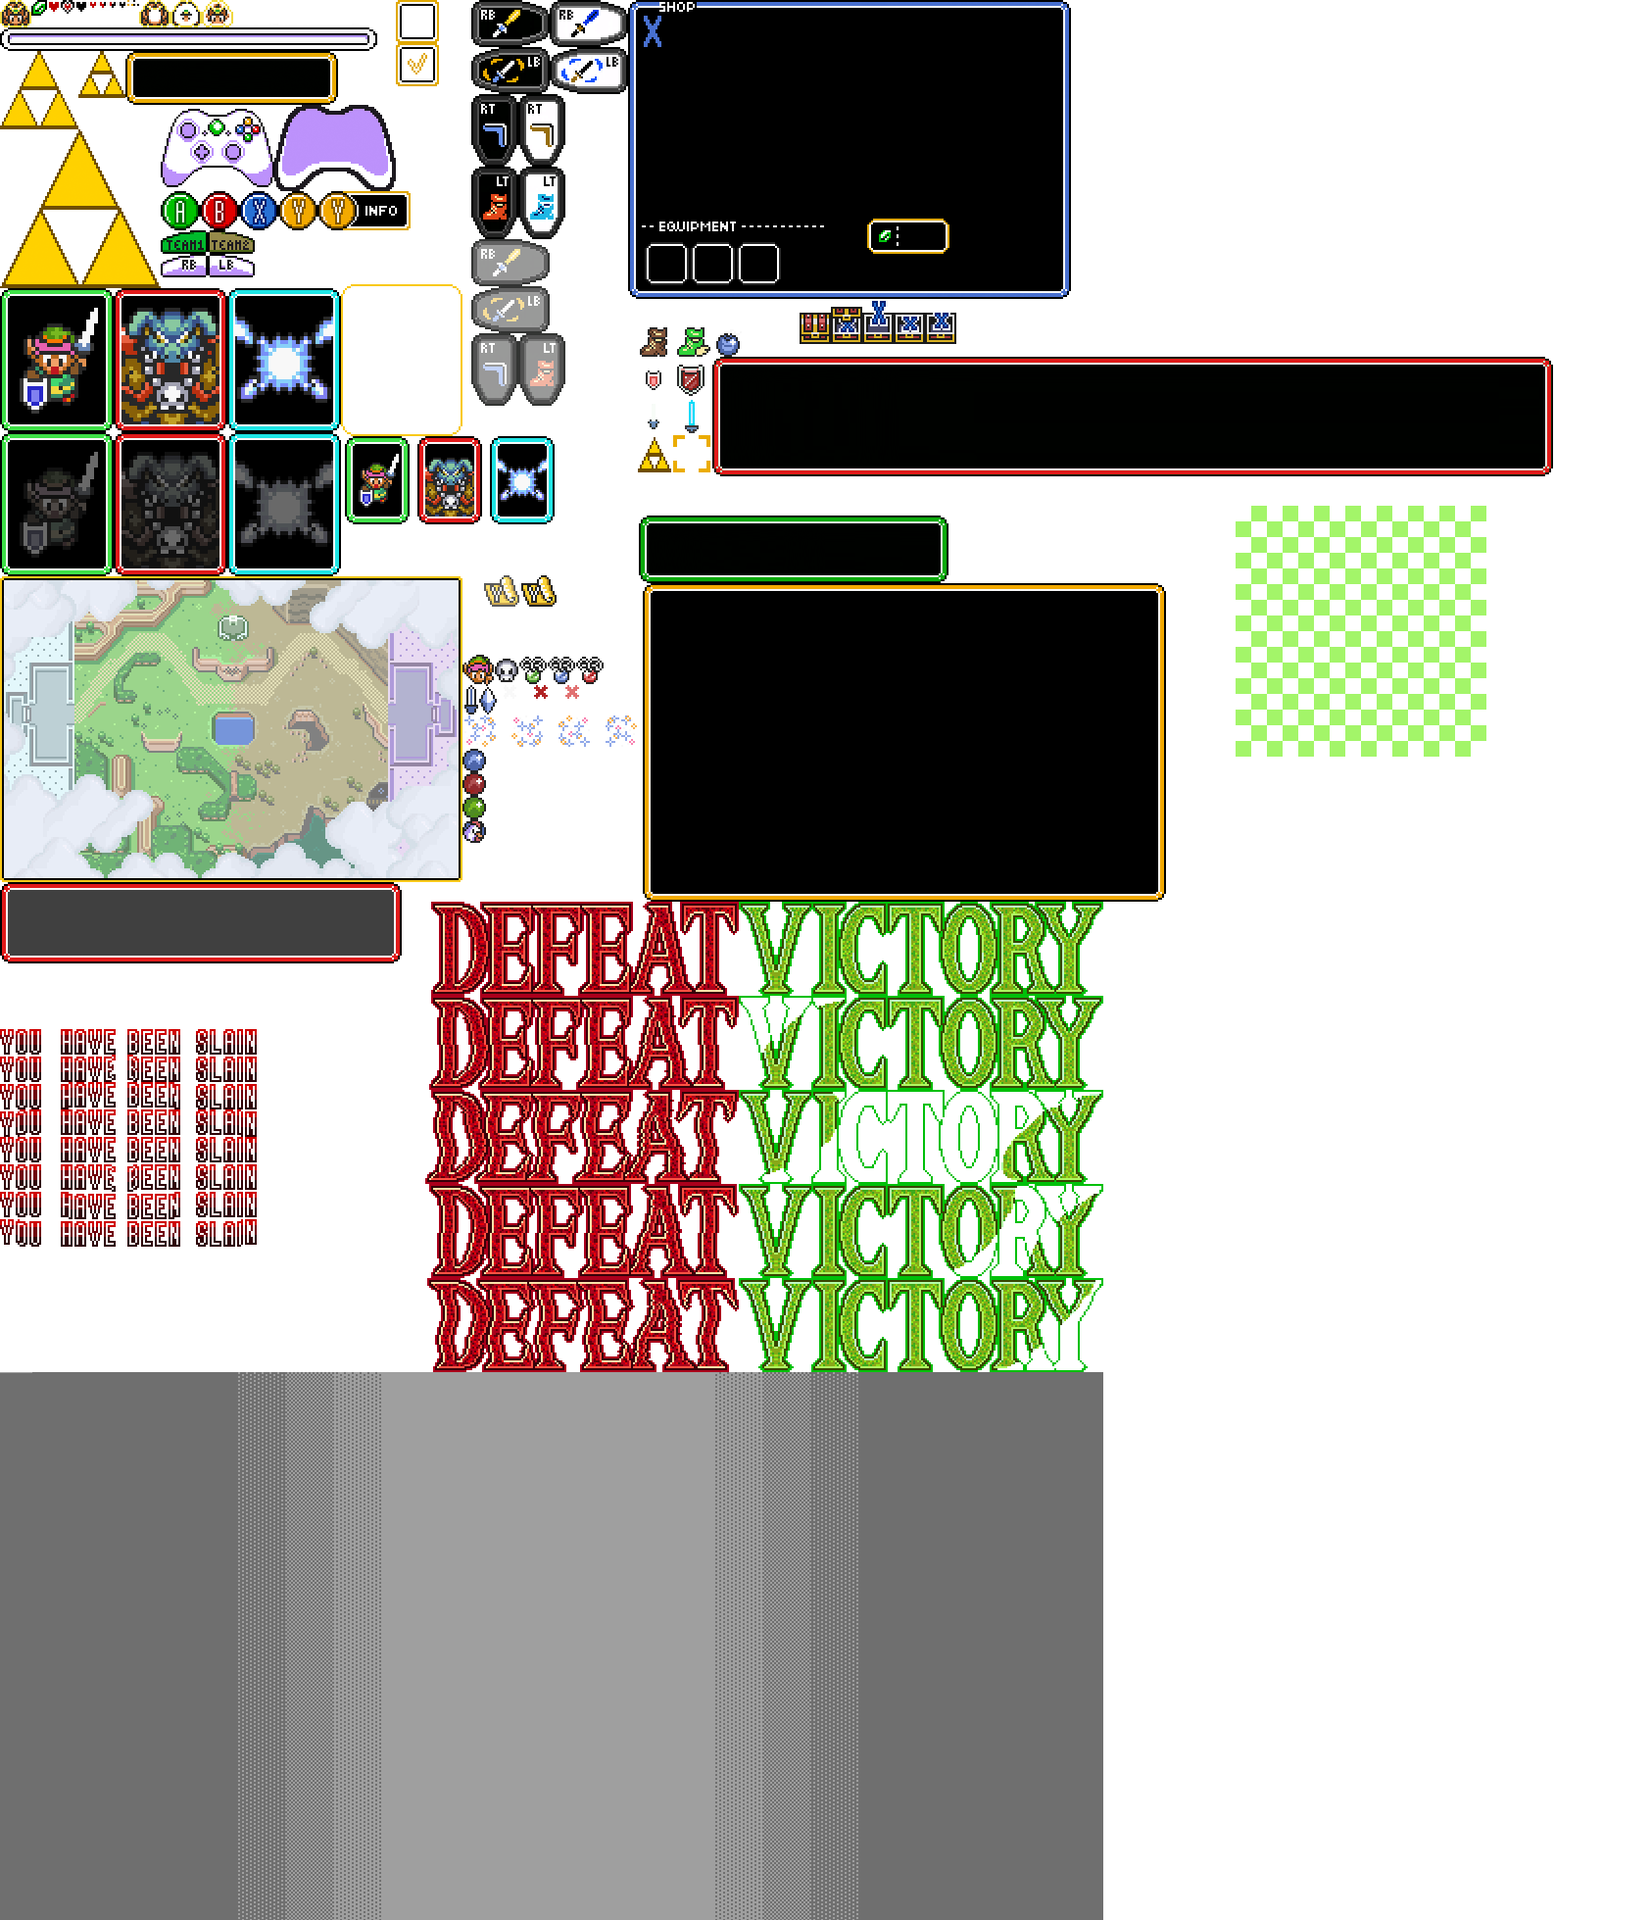
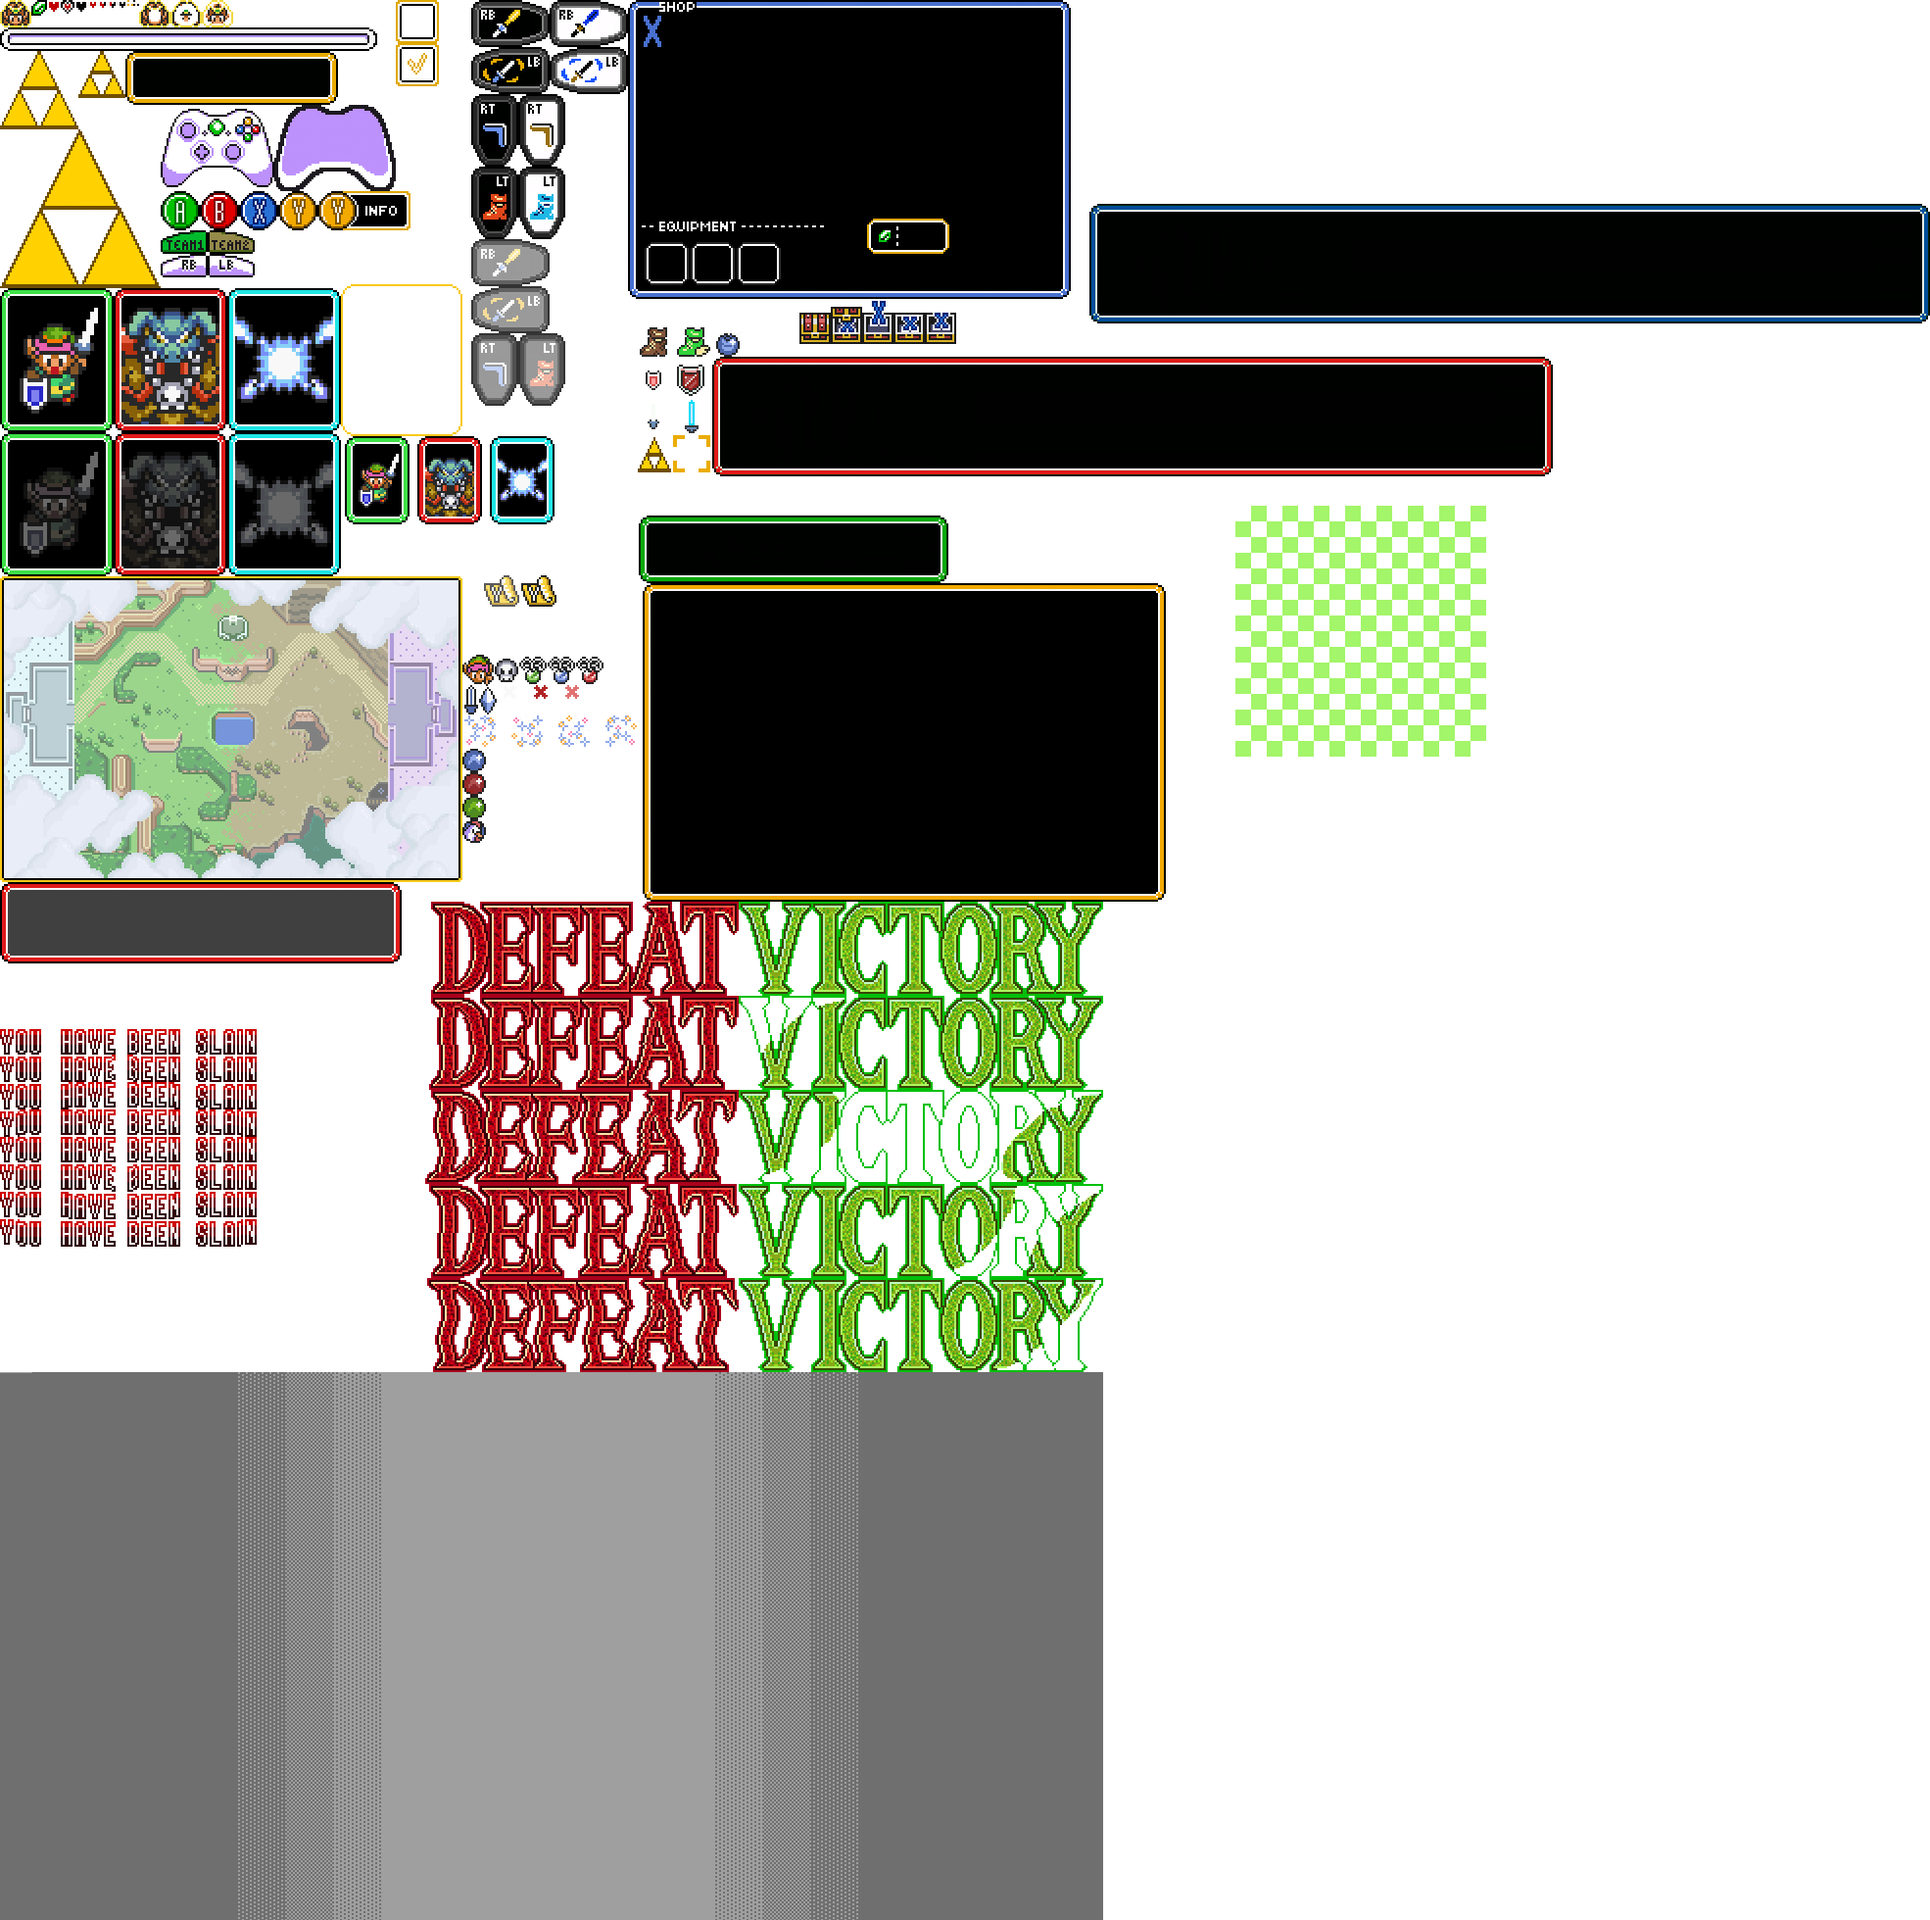
Final screen finished (passing data missing)

diff --git a/Motor2D/FinalScreen.cpp b/Motor2D/FinalScreen.cpp
@@ -1,19 +1,24 @@
 #include "FinalScreen.h"
 #include "j1Console.h"
 #include "j1Textures.h"
+#include "j1Input.h"
+#include "j1Window.h"
+#include "j1Scene.h"
 #include "j1Viewports.h"
 
 bool FinalScreen::Start()
 {
-	
-	SDL_Rect screen = App->view->GetViewportRect(1);
+	uint w, h; 
+	App->win->GetWindowSize(w,h);
+
+	SDL_Rect screen = { 0,0,w,h };
 
 	// Creating general elements ----
 
 	window = App->gui->UI_CreateWin({0, 0}, screen.w, screen.h, 0, false);
 
 	SDL_Rect background_title_rect = { 652, 526, 316, 69}; 
-	iPoint background_title_rect_pos = { screen.w - background_title_rect.w / 2, 20 };
+	iPoint background_title_rect_pos = { screen.w/2 - background_title_rect.w / 2, 20 };
 	title_background = window->CreateImage(background_title_rect_pos, background_title_rect);
 
 	title_text = window->CreateText({ background_title_rect_pos.x + 75, background_title_rect_pos.y + 13 }, App->font->game_font_20);
@@ -23,12 +28,43 @@ bool FinalScreen::Start()
 
 	// ----
 
+	//Creating player info 
+
+	SDL_Rect placeholder_item = { 1321, 587, 45, 45 };
+	SDL_Rect placeholder_character = { 1321, 587, 90,90 };
+
+	// This need to be modified to adapt how we save characters data
+
+	for (int i = 0; i < 4; i++)
+	{
+		final_screen_player_info new_info; 
+
+		new_info.deaths = 0; 
+		new_info.kills = 0;
+		new_info.minions = 0;
+		new_info.towers = 0;
+
+		new_info.items[0] = placeholder_item;
+		new_info.items[1] = placeholder_item;
+		new_info.items[2] = placeholder_item;
+
+		new_info.character_name = "link"; 
+
+		player_info.push_back(new_info); 
+	} 
+
+	// ----
+
+
 	// Creating player cards 
 
 	int y_offset = 0; 
+	int offset_increment = screen.h / 5; 
 
-	SDL_Rect background_card_rect = {727, 364, 858, 122}; 
-	iPoint background_card_pos = { screen.w - background_card_rect.w/2, 115};
+	SDL_Rect background_card_rect_team1 = { 1112, 208, 858, 122 };
+	SDL_Rect background_card_rect_team2 = { 727, 364, 858, 122 };
+
+	iPoint background_card_pos = { screen.w/2 - background_card_rect_team1.w/2, screen.h/6};
 
 	iPoint kills_text_pos = { background_card_pos.x + 60, background_card_pos.y + 20 };
 	iPoint deaths_text_pos = { background_card_pos.x + 190, background_card_pos.y + 20 };
@@ -36,51 +72,107 @@ bool FinalScreen::Start()
 	iPoint towers_text_pos = { background_card_pos.x + 490, background_card_pos.y + 20 };
 	iPoint items_text_pos = { background_card_pos.x + 690, background_card_pos.y + 20 };
 
+	iPoint item_1_image_pos = iPoint( items_text_pos.x - 62, items_text_pos.y + 35);
+	iPoint item_2_image_pos = iPoint( items_text_pos.x + 7, items_text_pos.y + 35 );
+	iPoint item_3_image_pos = iPoint( items_text_pos.x + 72, items_text_pos.y + 35);
+
 	for (int i = 0; i < 4; i++)
 	{
 		final_screen_element new_card; 
 
-		new_card.rectangle_image = window->CreateImage({ background_card_pos.x, background_card_pos.y + y_offset}, background_card_rect);
+		if(i < 2)
+			new_card.rectangle_image = window->CreateImage({ background_card_pos.x, background_card_pos.y + y_offset }, background_card_rect_team1);
+		else
+			new_card.rectangle_image = window->CreateImage({ background_card_pos.x, background_card_pos.y + y_offset }, background_card_rect_team2);
+
+		
+		new_card.character_image = window->CreateImage({ background_card_pos.x - 130, background_card_pos.y + 15 + y_offset }, placeholder_character);
 
 		new_card.kills_text = window->CreateText({ kills_text_pos.x, kills_text_pos.y + y_offset }, App->font->game_font);
 		new_card.kills_text->SetText("KILLS");
 
+		new_card.kills_num = window->CreateText({ kills_text_pos.x + 20, kills_text_pos.y + 35 + y_offset }, App->font->game_font_20);
+		
 		new_card.deaths_text = window->CreateText({ deaths_text_pos.x, deaths_text_pos.y + y_offset }, App->font->game_font);
 		new_card.deaths_text->SetText("DEATHS");
 
+		new_card.deaths_num = window->CreateText({ deaths_text_pos.x + 30, deaths_text_pos.y + 35 + y_offset }, App->font->game_font_20);
+	
 		new_card.minions_text = window->CreateText({ minions_text_pos.x, minions_text_pos.y + y_offset }, App->font->game_font);
 		new_card.minions_text->SetText("MINIONS");
 
+		new_card.minions_num = window->CreateText({ minions_text_pos.x + 35, minions_text_pos.y + 35 + y_offset }, App->font->game_font_20);
+	
 		new_card.towers_text = window->CreateText({ towers_text_pos.x, towers_text_pos.y + y_offset }, App->font->game_font);
 		new_card.towers_text->SetText("TOWERS");
 
+		new_card.towers_num = window->CreateText({ towers_text_pos.x + 35, towers_text_pos.y + 35 + y_offset }, App->font->game_font_20);
+	
 		new_card.items_text = window->CreateText({ items_text_pos.x, items_text_pos.y + y_offset }, App->font->game_font);
 		new_card.items_text->SetText("ITEMS");
+	
+		new_card.item_images_1 = window->CreateImage({ item_1_image_pos.x, item_1_image_pos.y + y_offset }, placeholder_item);
 
-		y_offset += 150;
+		new_card.item_images_2 = window->CreateImage({ item_2_image_pos.x, item_2_image_pos.y + y_offset }, placeholder_item);
+
+		new_card.item_images_3 = window->CreateImage({ item_3_image_pos.x, item_3_image_pos.y + y_offset }, placeholder_item);
+
+		new_card.SetInfo(player_info[i]); 
+
+		y_offset += offset_increment;
 	}
 
 	return false;
 }
 
-bool FinalScreen::Update()
+bool FinalScreen::Update(float dt)
 {
 
-
 	// Printing background
-		App->render->Blit(background_image, 0,0);
+		App->view->LayerBlit(0, background_image, App->view->camera1, {0,0,1994, 1359}, 0,1);
+
+		if (App->input->GetControllerButton(0, SDL_CONTROLLER_BUTTON_START) == KEY_DOWN)
+			App->scene->ChangeScene((Scene*)App->scene->menu_scene); 
 
 	return false;
 }
 
 bool FinalScreen::CleanUp()
 {
+	if(App->scene->GetCurrentScene() != App->scene->final_screen)
+		App->gui->DeleteElement(window);
+
 	return false;
 }
 
 void final_screen_element::SetInfo(final_screen_player_info player_info)
 {
 
+	SDL_Rect placeholder_character = { 1321, 587, 90, 90 };
+	SDL_Rect placeholder_item = { 1321, 587, 45, 45 };
 
+	string kills_num_str = to_string(player_info.kills); 
+	string deaths_num_str = to_string(player_info.deaths);
+	string minions_num_str = to_string(player_info.minions);
+	string towers_num_str = to_string(player_info.towers);
 
+	kills_num->SetText(kills_num_str);
+	deaths_num->SetText(deaths_num_str);
+	minions_num->SetText(minions_num_str);
+	towers_num->SetText(towers_num_str);
+
+	if (player_info.character_name == "link")
+		character_image->image = placeholder_character;
+
+	else if (player_info.character_name == "ganon")
+		character_image->image = placeholder_character;
+
+	else if (player_info.character_name == "navi")
+		character_image->image = placeholder_character;
+
+	item_images_1->image = player_info.items[0]; 
+	item_images_2->image = player_info.items[1];
+	item_images_3->image = player_info.items[2];
+	
+	
 }

diff --git a/Motor2D/FinalScreen.h b/Motor2D/FinalScreen.h
@@ -11,28 +11,32 @@ struct final_screen_player_info
 	int				kills = -1;
 	int				minions = -1;
 	int				towers = -1;
+
+	SDL_Rect		items[3]; 
+
+	string			character_name; 
 };
 
 struct final_screen_element
 {
-	UI_Image*		character_image = nullptr; 
-	UI_Image*		rectangle_image = nullptr; 
+	UI_Image*				character_image = nullptr; 
+	UI_Image*				rectangle_image = nullptr; 
 
-	UI_Text*		kills_text = nullptr; 
-	UI_Text*		deaths_text = nullptr;
-	UI_Text*		minions_text = nullptr;
-	UI_Text*		towers_text = nullptr;
-	UI_Text*		items_text = nullptr; 
+	UI_Text*				kills_text = nullptr; 
+	UI_Text*				deaths_text = nullptr;
+	UI_Text*				minions_text = nullptr;
+	UI_Text*				towers_text = nullptr;
+	UI_Text*				items_text = nullptr; 
 
-	UI_Text*		kills_num = nullptr;
-	UI_Text*		deaths_num = nullptr;
-	UI_Text*		minions_num = nullptr;
-	UI_Text*		towers_num = nullptr;
-	UI_Text*		items_num = nullptr;
+	UI_Text*				kills_num = nullptr;
+	UI_Text*				deaths_num = nullptr;
+	UI_Text*				minions_num = nullptr;
+	UI_Text*				towers_num = nullptr;
+	UI_Text*				items_num = nullptr;
 
-	UI_Image*		item_1_image = nullptr; 
-	UI_Image*		item_2_image = nullptr;
-	UI_Image*		item_3_image = nullptr;
+	UI_Image*				item_images_1; 
+	UI_Image*				item_images_2;
+	UI_Image*				item_images_3;
 
 	void SetInfo(final_screen_player_info player_info);
 };
@@ -43,7 +47,7 @@ public:
 
 	bool Start();
 
-	bool Update(); 
+	bool Update(float dt); 
 
 	bool CleanUp(); 
 

diff --git a/Motor2D/j1Input.cpp b/Motor2D/j1Input.cpp
@@ -226,8 +226,9 @@ bool j1Input::CleanUp()
 	// Clean GamePads ------
 	for (std::vector<GamePad*>::iterator it = gamepads.begin(); it != gamepads.end(); it++) {
 
-		if((*it) != nullptr && (*it)->pad != nullptr)
-			SDL_GameControllerClose((*it)->pad);
+		//if((*it) != nullptr && (*it)->pad != nullptr)
+		//	SDL_GameControllerClose((*it)->pad);
+
 		RELEASE(*it);
 	}
 	gamepads.clear();
